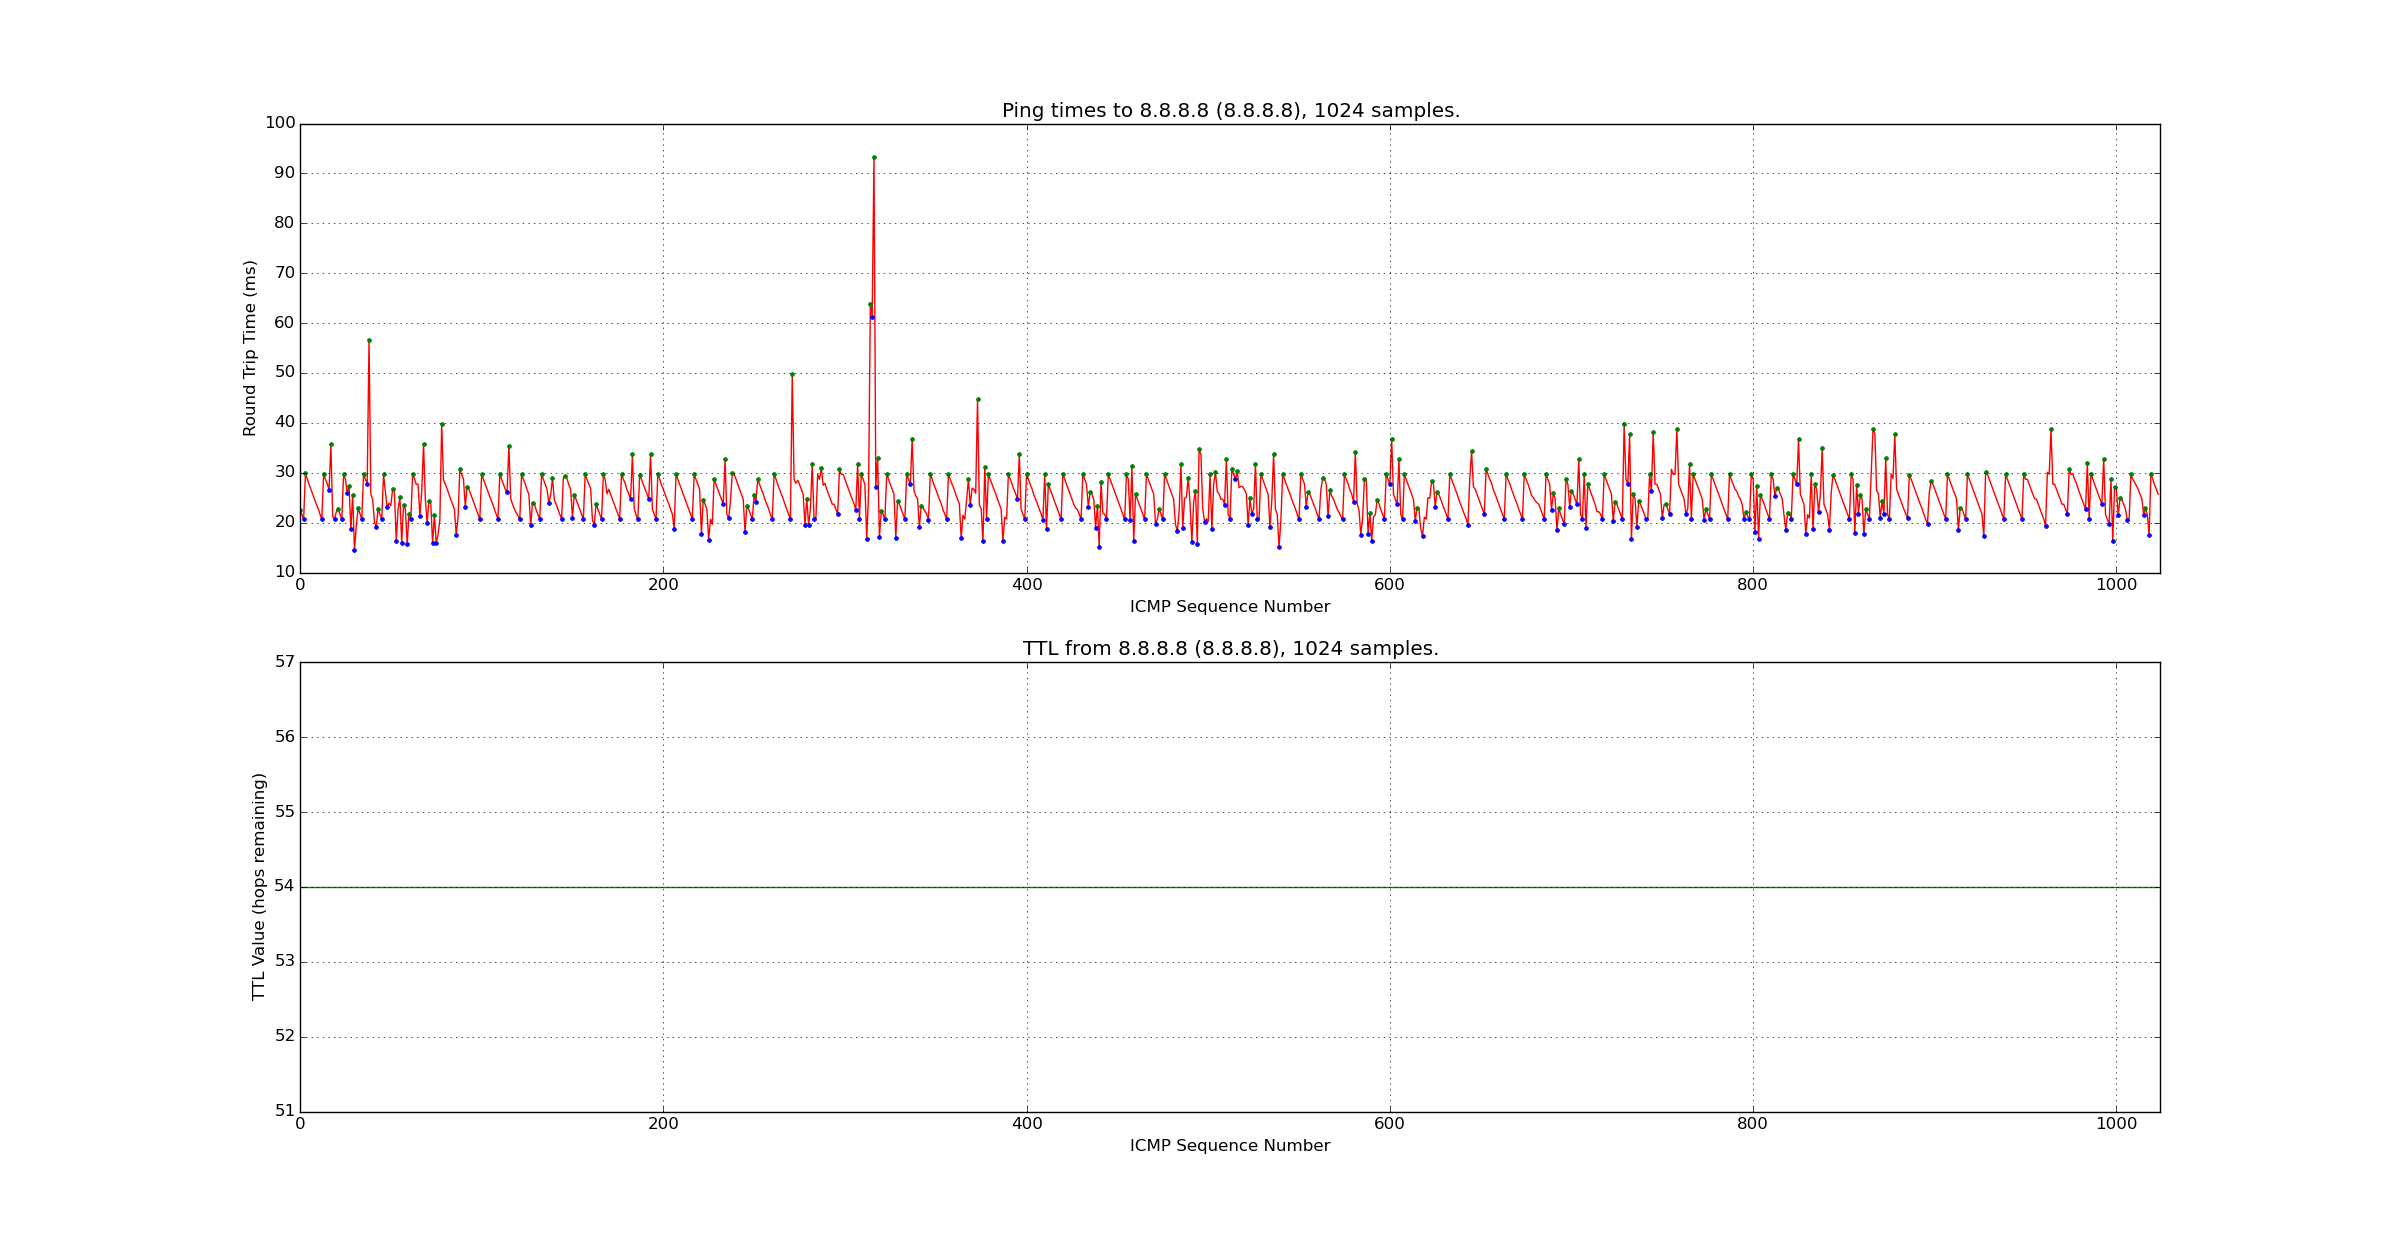
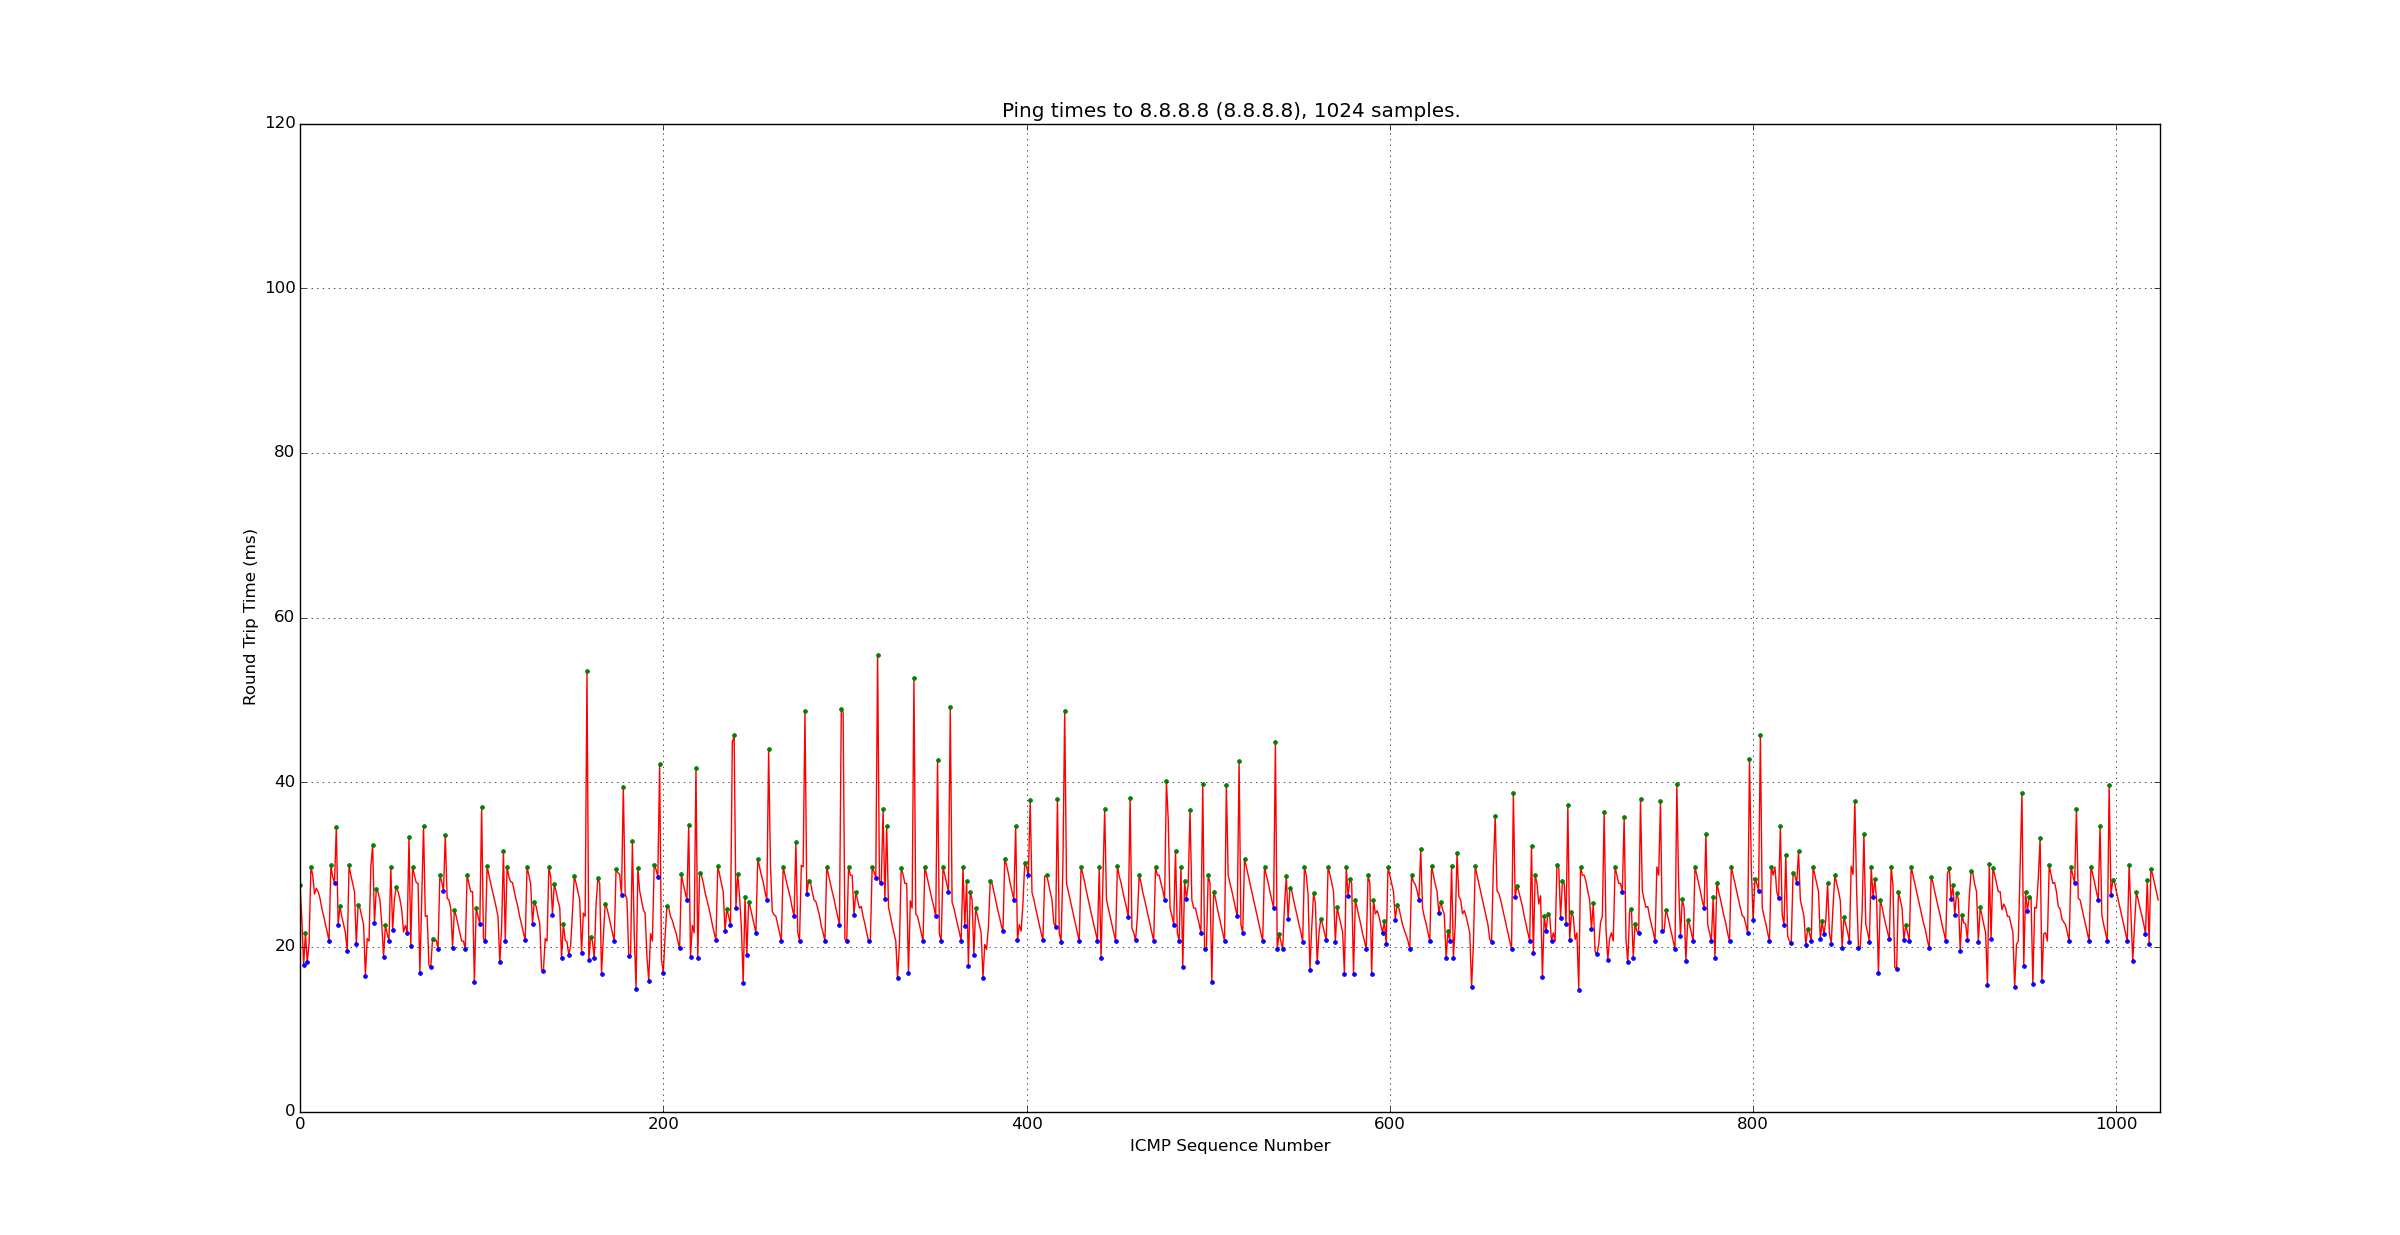
Removed TTL graphing because it's kind of pointless.

diff --git a/pyplotping.py b/pyplotping.py
@@ -25,7 +25,6 @@ HOST_REGEX = "(PING .* \(?([0-9]{1,3}\.){3}([0-9]{1,3})\))?"
 ADDR_REGEX = "([0-9]{1,3}\.){3}([0-9]{1,3})"
 DATA_REGEX = "([0-9]{1,3} byte(s)?)"
 RTT_REGEX = "(time=[0-9][0-9]\.[0-9])"
-TTL_REGEX = "(ttl=[0-9]{1,})"
  
 def peakdet(v, delta, x = None):
     """
@@ -105,7 +104,6 @@ def build_graph_for_ping_file(filepath):
   """
   content = open(filepath, 'r').read() #Grab the file
   rtt_list = []
-  ttl_list = []
   #Now find out which host we were pinging
   hostline = re.search(HOST_REGEX, content).group()
   hostlineparts = hostline.split()
@@ -121,16 +119,11 @@ def build_graph_for_ping_file(filepath):
       rttblob = re.search(RTT_REGEX, line).group()
       rtt = float(rttblob.split('=')[1])
       rtt_list.append(rtt)
-      
-      ttlblob = re.search(TTL_REGEX, line).group()
-      ttl = float(ttlblob.split('=')[1])
-      ttl_list.append(ttl)
   
   #Generate our graphs - Round Trip Time first
   plt.figure(1)
-  plt.subplot(2,1,1) #Two rows, one column, fig. 1
   plt.title("Ping times to " + host + " (" + hostaddr + "), " + str(index) + " samples.")
-  #plt.ylim(0, 120) #Set Y limits
+  plt.ylim(0, 120) #Set Y limits
   plt.xlim(0,index)    
   plt.ylabel("Round Trip Time (ms)")
   plt.xlabel("ICMP Sequence Number")
@@ -150,16 +143,8 @@ def build_graph_for_ping_file(filepath):
     rtt_minima_ypos.append(y)
   plt.plot(rtt_maxima_xpos, rtt_maxima_ypos, marker = '.', linestyle = '', color = 'g')
   plt.plot(rtt_minima_xpos, rtt_minima_ypos, marker = '.', linestyle = '', color = 'b')
-  
-  #Next, do Time To Live
-  plt.subplot(2,1,2) #2 rows, 1 column, fig. 2
-  plt.title("TTL from " + host + " (" + hostaddr + "), " + str(index) + " samples.")
-  plt.xlim(0,index)
-  plt.xlabel("ICMP Sequence Number")
-  plt.ylabel("TTL Value (hops remaining)")
-  plt.grid(True)
-  plt.plot(np.array([n for n in range (index)]), np.array(ttl_list), linestyle = '-', marker = '', color = 'g')
   plt.show()
+  
   
 #end build_graph_for_ping_file()
 
